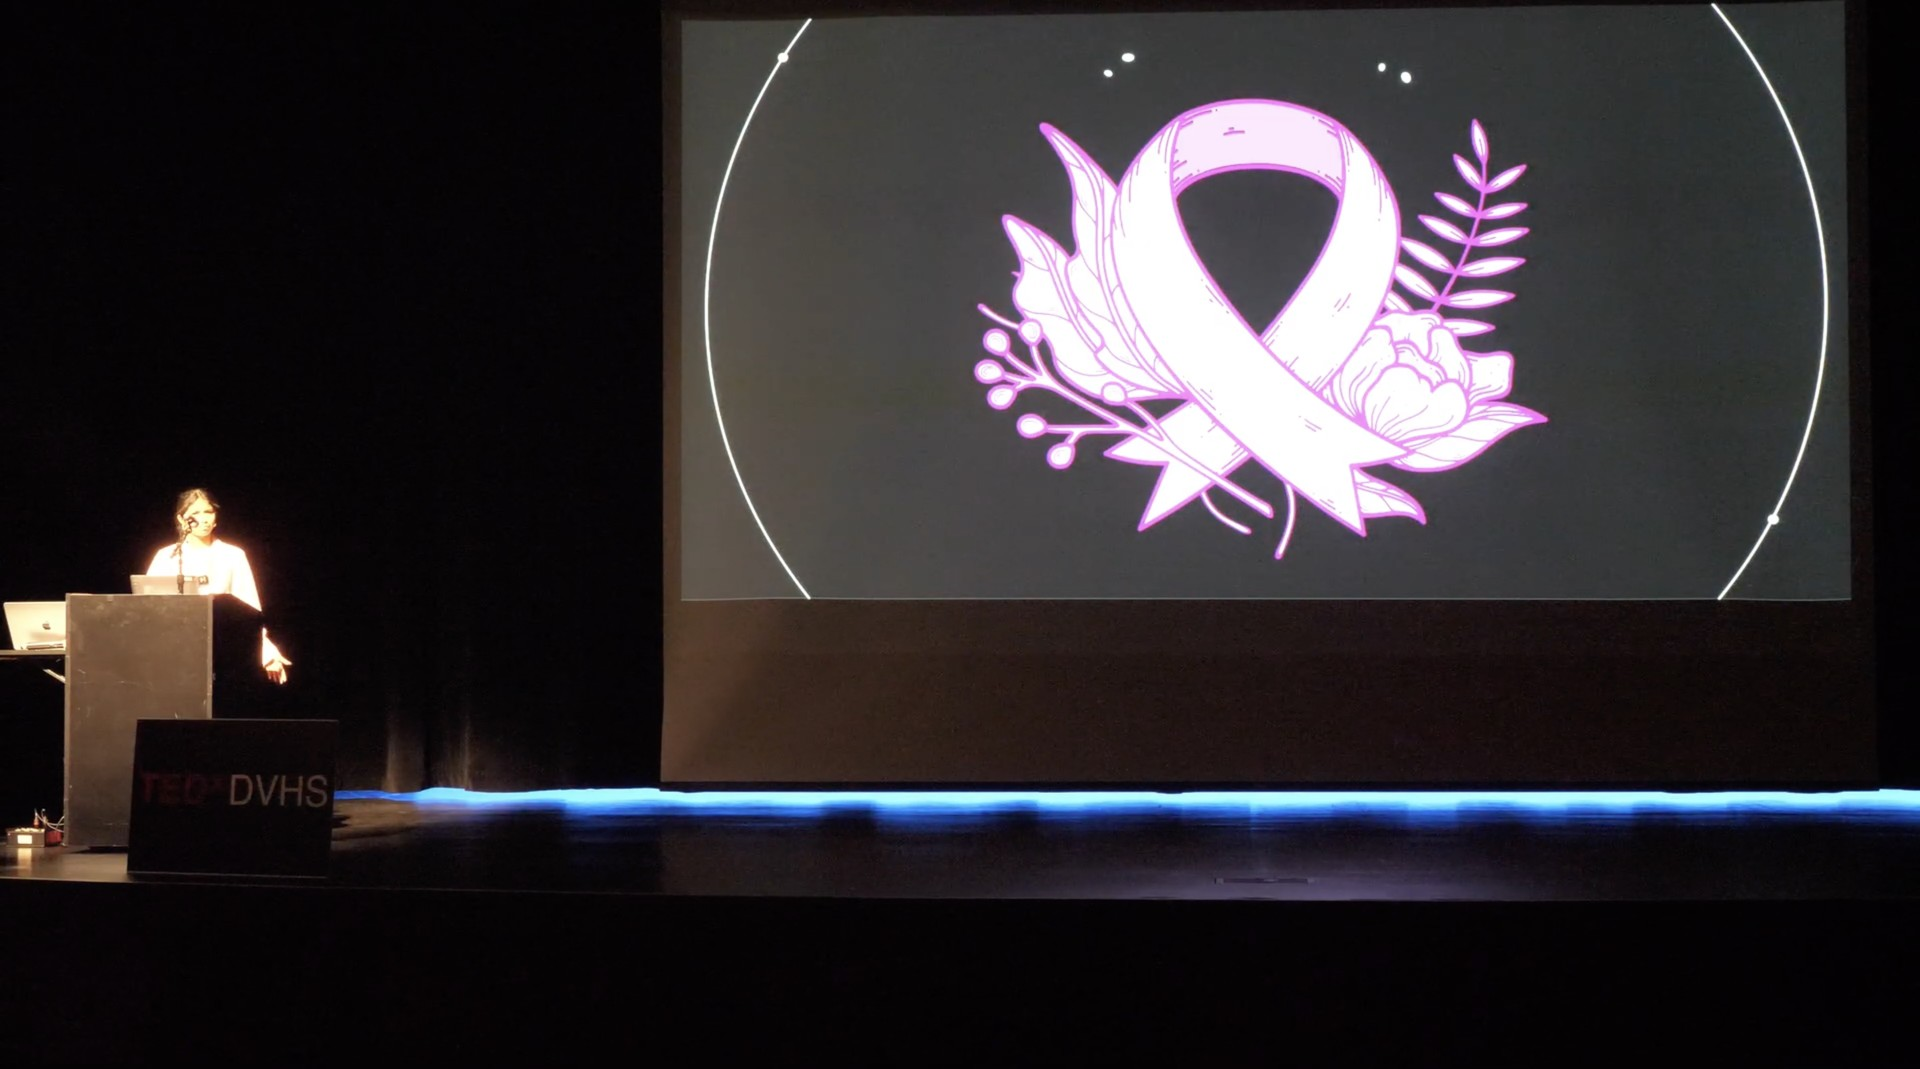
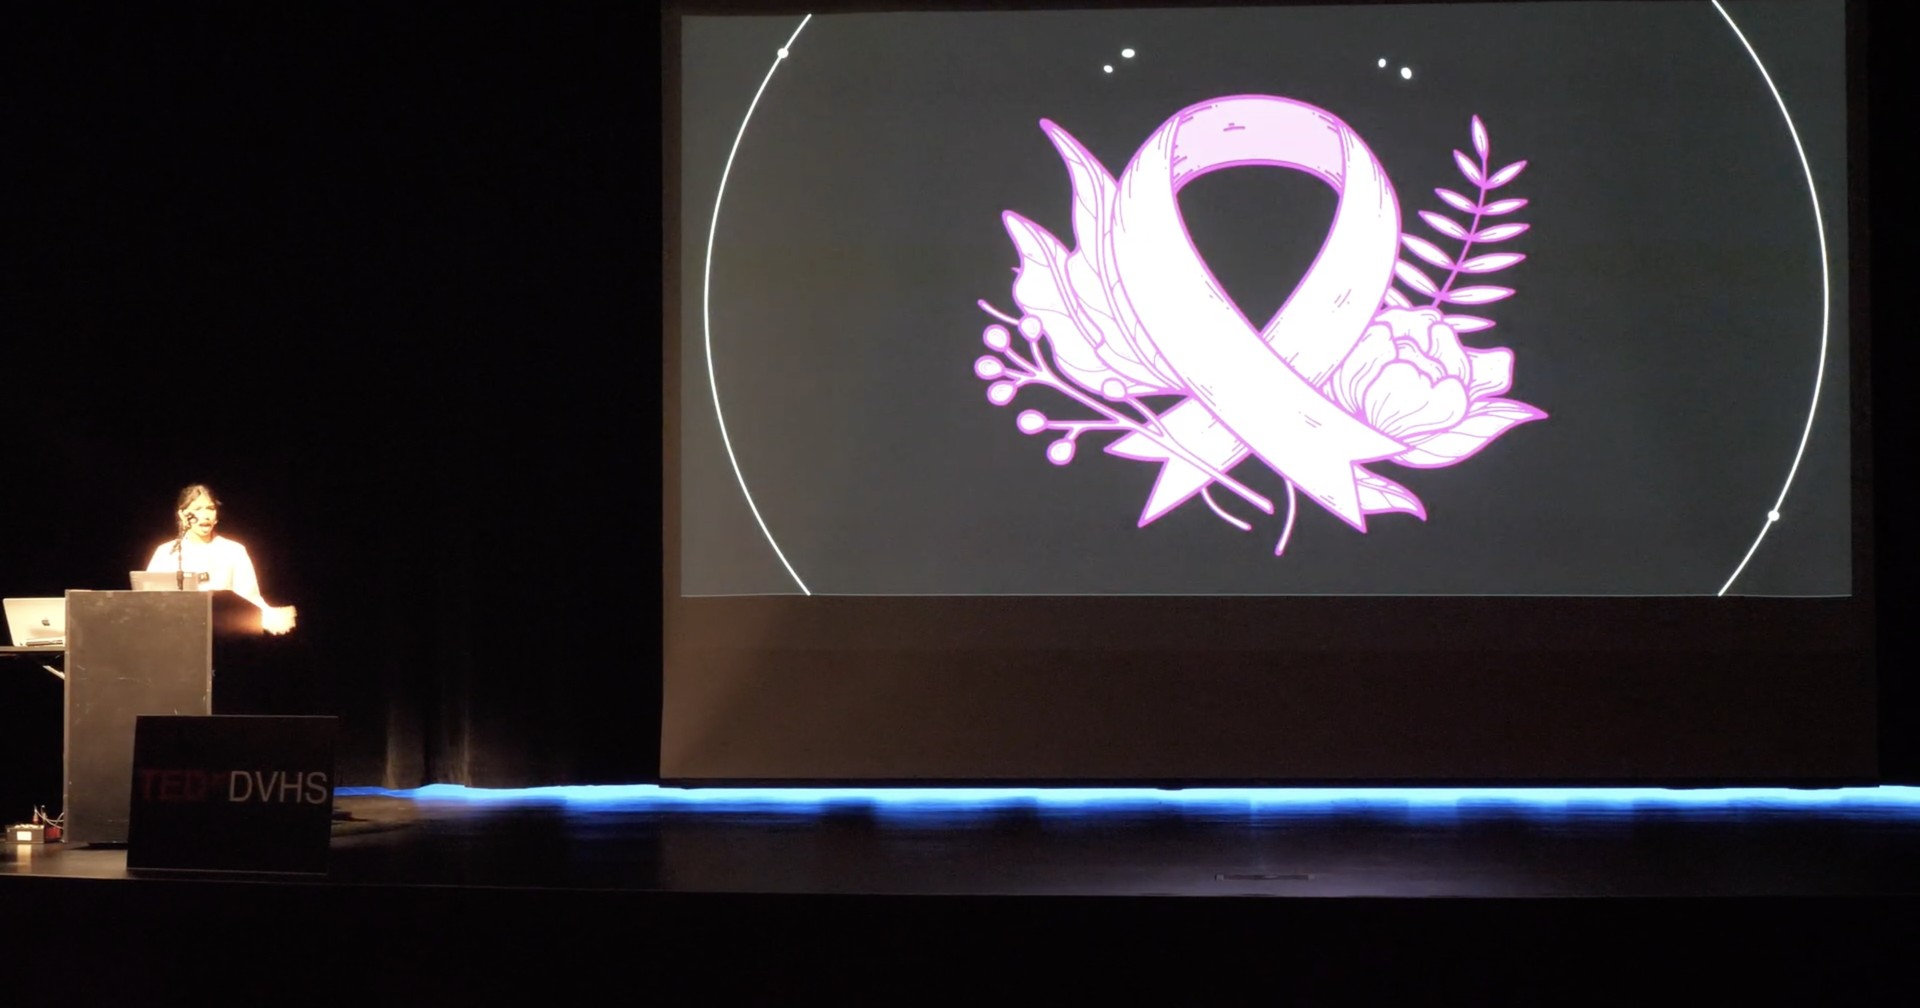
PinkAlert Website

diff --git a/research.html b/research.html
@@ -75,7 +75,7 @@
 
     <div class="video">
       <button type="button" data-youtube="Pw-6KY_KDwA" aria-label="Play: From Patient to Innovator, My Journey Through Breast Cancer as a Teen, Arshia Ghatak, TEDxDVHS">
-        <img src="assets/img/tedx-thumbnail-ribbon.jpg" alt="Arshia Ghatak speaking at TEDxDVHS beside a slide of the pink breast cancer awareness ribbon" width="1920" height="1069">
+        <img src="assets/img/tedx-thumbnail-ribbon.jpg?v=2" alt="Arshia Ghatak speaking at TEDxDVHS beside a slide of the pink breast cancer awareness ribbon" width="1920" height="1008">
         <span class="play"><svg viewBox="0 0 24 24" fill="currentColor"><path d="M7 4.5v15l13-7.5z"/></svg></span>
         <span class="vcap"><small>TEDx Talk · TEDxDVHS</small><b>From Patient to Innovator: My Journey Through Breast Cancer as a Teen</b></span>
       </button>
